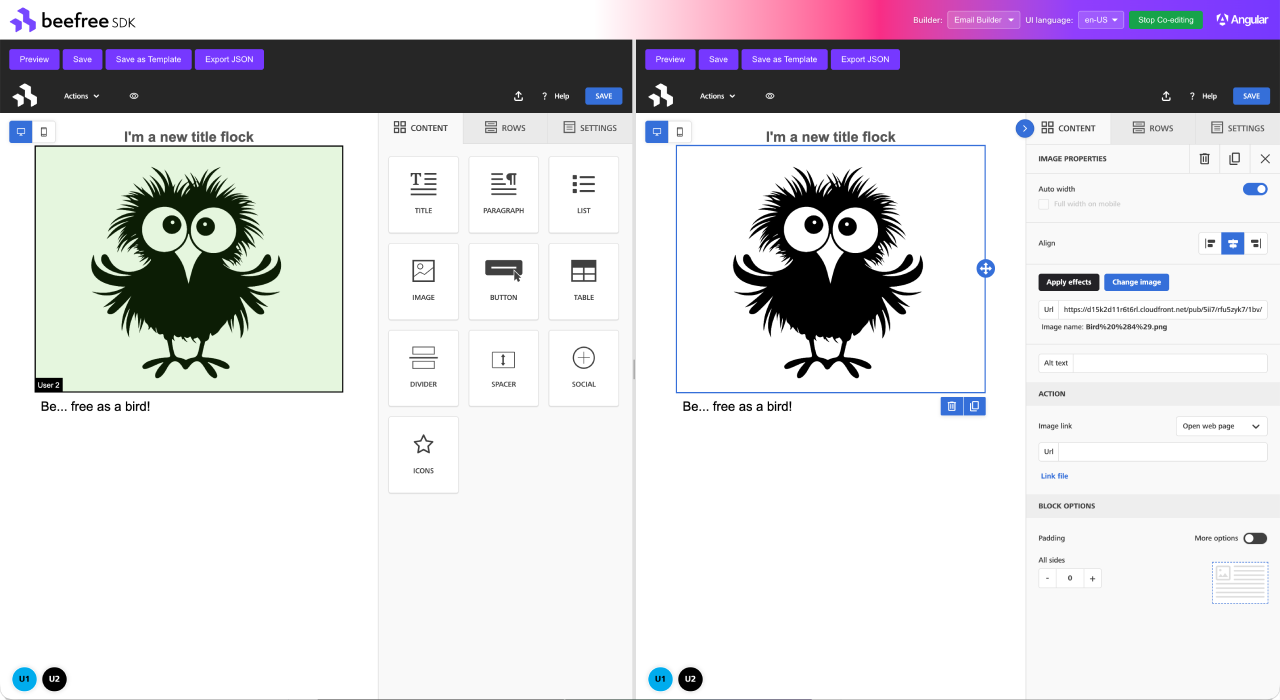
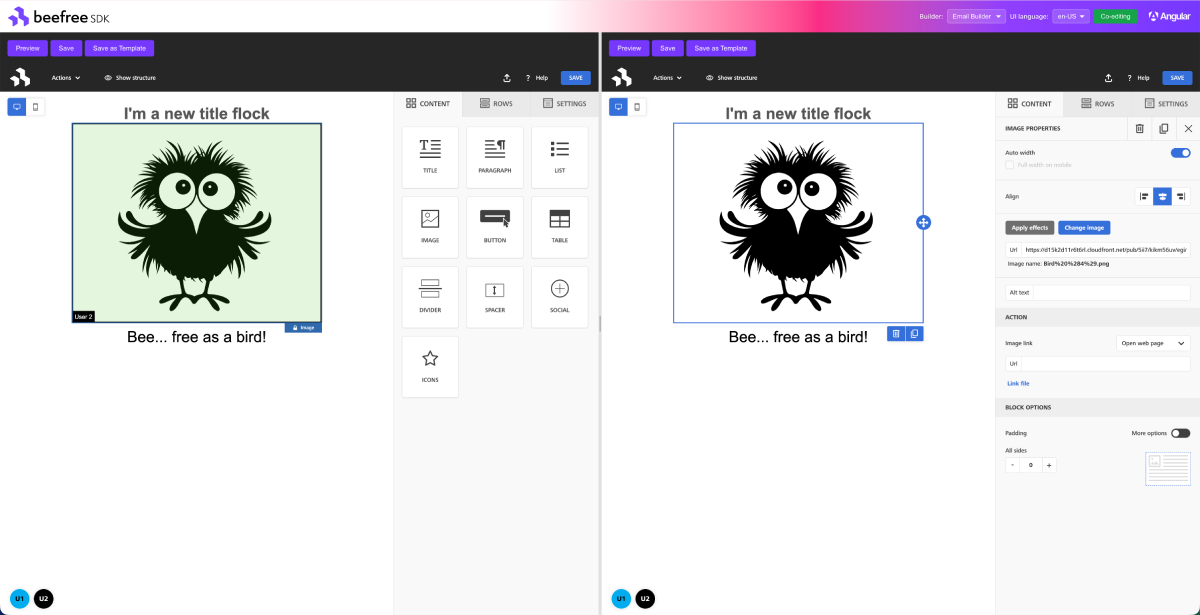
docs: update readme and align example

diff --git a/src/app/beefree-example.component.ts b/src/app/beefree-example.component.ts
@@ -175,31 +175,7 @@ export class BeefreeExampleComponent implements OnInit, OnChanges {
 
   builderHeight = computed(() => 'calc(100vh - 128px)');
 
-  defaultContentLanguage = { label: 'en-US', value: 'en-US' };
-
-  additionalContentLanguages = [
-    { label: 'it-IT', value: 'it-IT' },
-    { label: 'es-ES', value: 'es-ES' },
-    { label: 'fr-FR', value: 'fr-FR' },
-    { label: 'de-DE', value: 'de-DE' },
-    { label: 'pt-BR', value: 'pt-BR' },
-    { label: 'id-ID', value: 'id-ID' },
-    { label: 'ja-JP', value: 'ja-JP' },
-    { label: 'zh-CN', value: 'zh-CN' },
-    { label: 'zh-HK', value: 'zh-HK' },
-    { label: 'cs-CZ', value: 'cs-CZ' },
-    { label: 'nb-NO', value: 'nb-NO' },
-    { label: 'da-DK', value: 'da-DK' },
-    { label: 'sv-SE', value: 'sv-SE' },
-    { label: 'pl-PL', value: 'pl-PL' },
-    { label: 'hu-HU', value: 'hu-HU' },
-    { label: 'ru-RU', value: 'ru-RU' },
-    { label: 'ko-KR', value: 'ko-KR' },
-    { label: 'nl-NL', value: 'nl-NL' },
-    { label: 'fi-FI', value: 'fi-FI' },
-    { label: 'ro-RO', value: 'ro-RO' },
-    { label: 'sl-SI', value: 'sl-SI' },
-  ];
+  // ...existing code...
 
   private i18nMap: Record<string, typeof i18nEnUS> = {
     'en-US': i18nEnUS,
@@ -268,8 +244,7 @@ export class BeefreeExampleComponent implements OnInit, OnChanges {
     username: 'User 1',
     userColor: '#00aced',
     userHandle: 'user1',
-    templateLanguage: this.defaultContentLanguage,
-    templateLanguages: this.additionalContentLanguages,
+    // ...existing code...
     onSave: (_pageJson: string, pageHtml: string) => {
       this.downloadFile(`design-${Date.now()}.html`, pageHtml, 'text/html;charset=utf-8');
     },
@@ -292,8 +267,7 @@ export class BeefreeExampleComponent implements OnInit, OnChanges {
     username: 'User 2',
     userColor: '#000000',
     userHandle: 'user2',
-    templateLanguage: this.defaultContentLanguage,
-    templateLanguages: this.additionalContentLanguages,
+    // ...existing code...
     onSave: (_pageJson: string, pageHtml: string) => {
       this.downloadFile(`design-${Date.now()}.html`, pageHtml, 'text/html;charset=utf-8');
     },

diff --git a/projects/angular-email-builder/README.md b/projects/angular-email-builder/README.md
@@ -7,7 +7,7 @@
 
 An Angular wrapper library for the [Beefree SDK](https://www.beefree.io/), providing standalone components and an injectable service to embed the Beefree email/page/popup builder into your Angular applications.
 
-![Beefree SDK Angular Builder — collaborative editing demo](docs/angular-email-builder-example.png)
+![Beefree SDK Angular Builder — collaborative editing demo](../../docs/angular-email-builder-example.png)
 
 ## Table of Contents
 